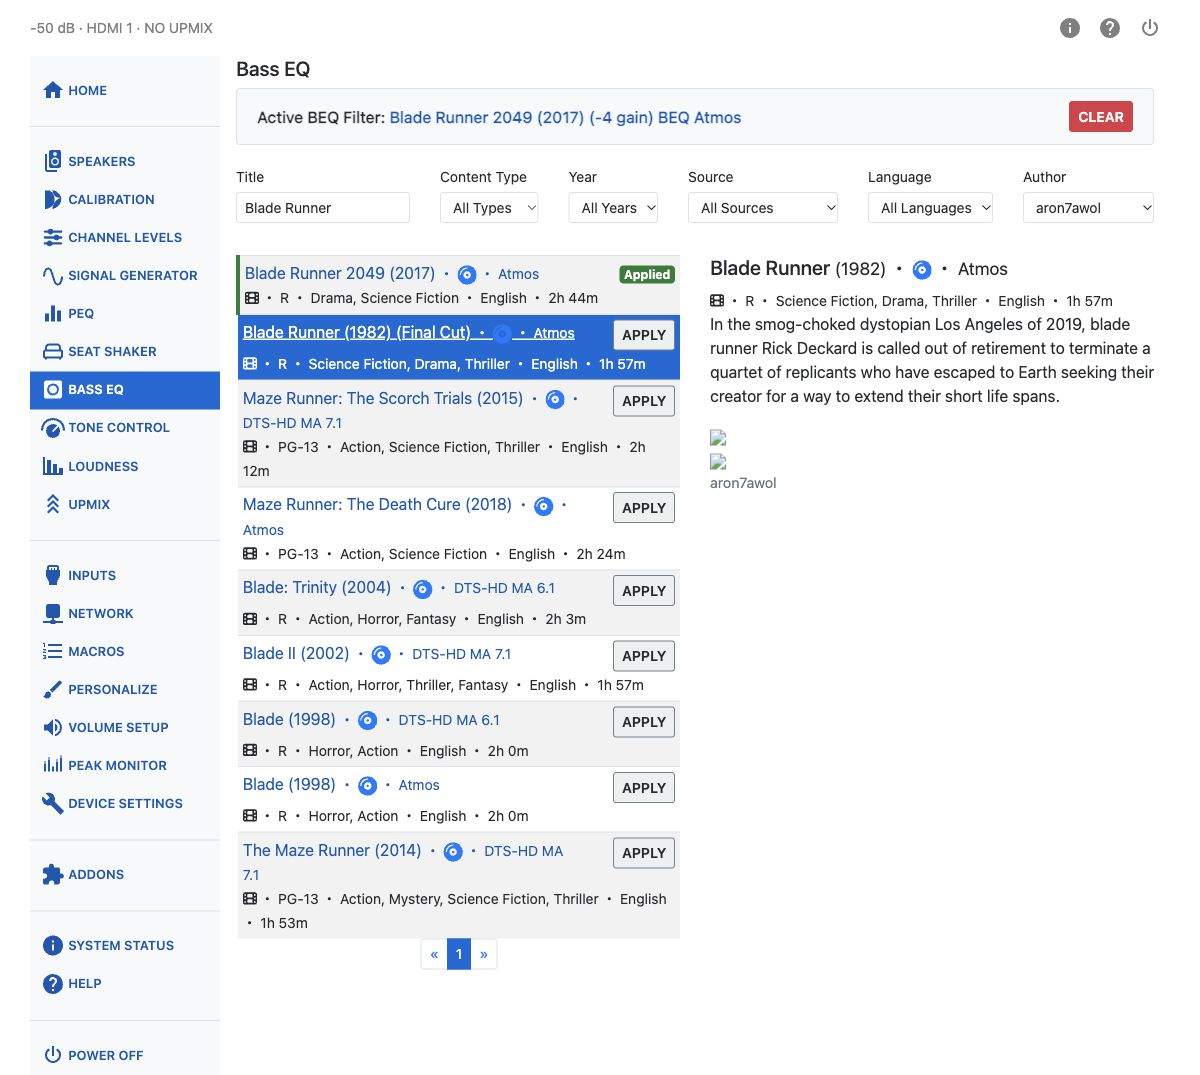
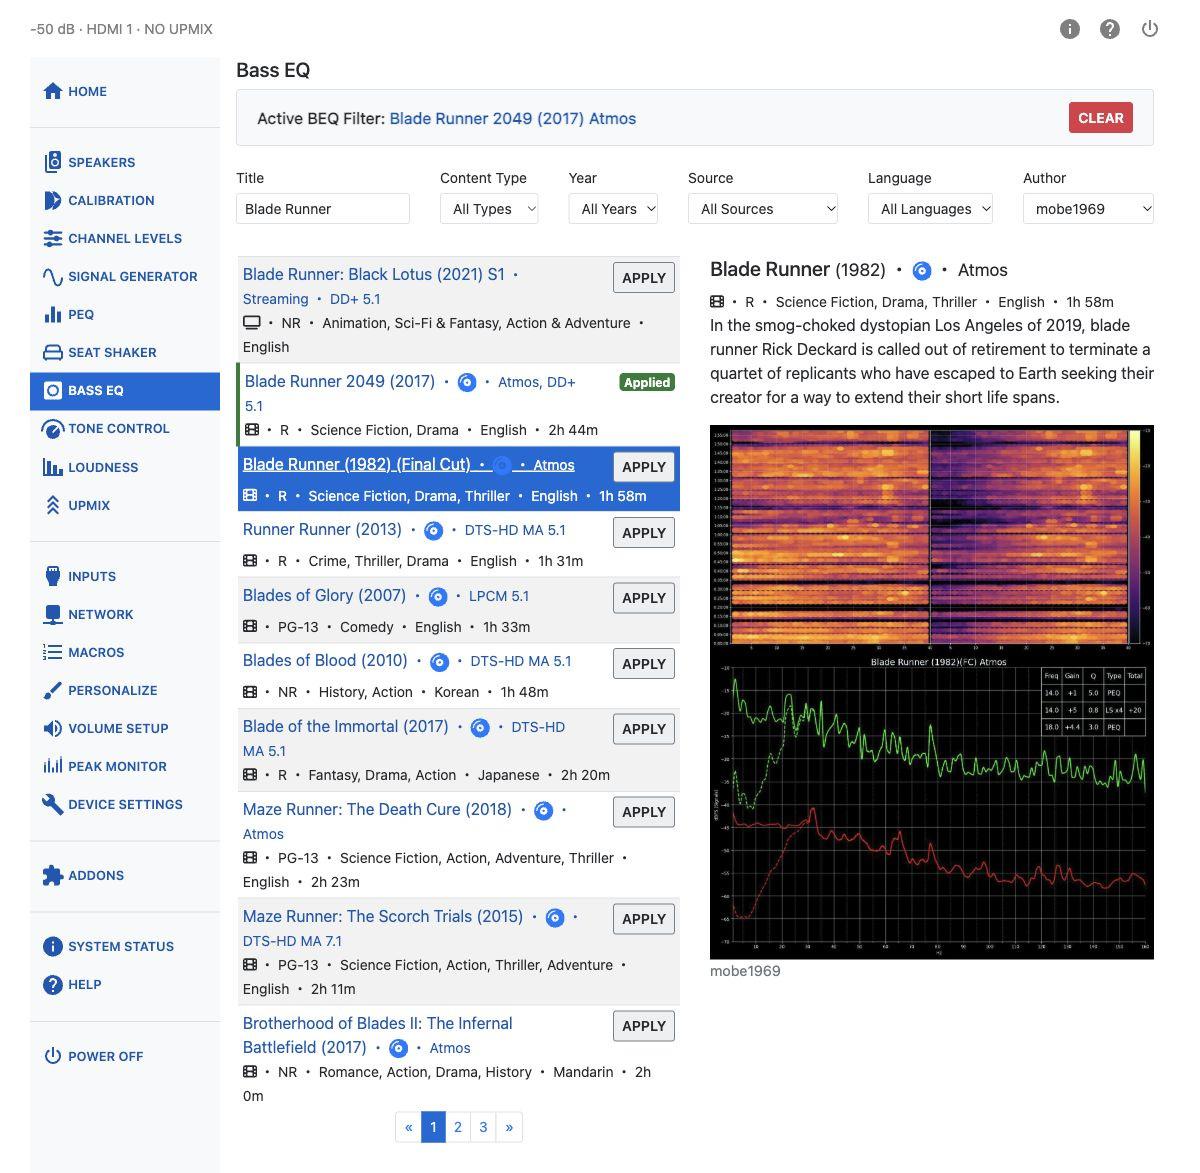
docs: adopt approved BEQ captures with loaded artwork

diff --git a/docs/development/manual-screenshot-checklist.md b/docs/development/manual-screenshot-checklist.md
@@ -45,7 +45,8 @@ No physical-unit configuration was changed. Hardware-default confirmation remain
 
 Network addresses and MAC addresses in this batch are illustrative runtime data.
 No network configuration was applied. BEQ application was confined to the isolated preview.
-The external BEQ artwork failed to load; artwork-complete replacements remain pending.
+The BEQ captures were subsequently replaced with artwork-loaded mobe1969 catalogue entries.
+Both replacement captures retain the 1200 px viewport; BEQ application stayed in the isolated preview.
 
 ## Adopted active meter captures
 
@@ -107,7 +108,6 @@ System Status screenshot remains until a suitable public-release capture is avai
 
 ## Remaining screenshot work
 
-- [ ] BEQ: replace the adopted Author and applied-versus-browsed captures when external catalogue artwork is available.
 - [ ] Dirac recovery states, only when safely reproducible.
 - [ ] 1.13.3 ART Upgrade Preparation screen, clearly identified as legacy.
 - [ ] Current third-party Dirac app workflow images.
